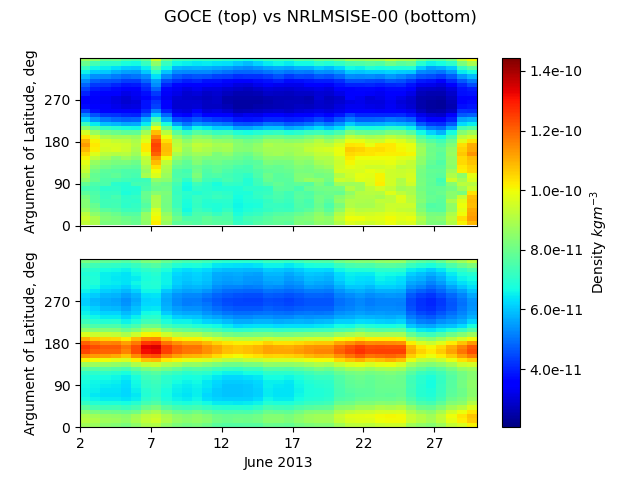
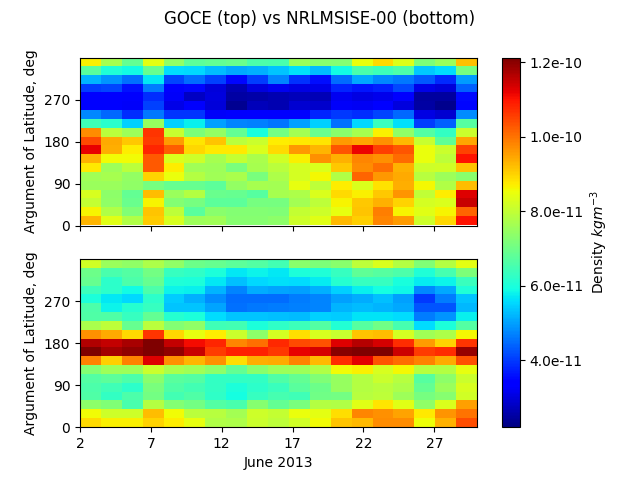
Increased reduction factor so that number of requests made to API is under the daily quota.

diff --git a/validation_goce_mission/analysis.py b/validation_goce_mission/analysis.py
@@ -80,7 +80,7 @@ df_goce = df_goce[
 
 # Reduce the dataset by only keeping every N-th sample
 # reduces the number of API calls
-reduction_factor = 10
+reduction_factor = 250
 df_goce = df_goce.iloc[::reduction_factor, :]
 
 # Create geomagnetic indices lookup dataframe for the month
@@ -248,6 +248,7 @@ def fetch_density_from_api(row):
     else:
         return response.json()
 
+print("WARNING: making {} requests from the Amentum API, may exceed daily quota".format(len(df_goce)))
 
 # Apply the function call onto each row of the dataframe
 res = df_goce.apply(fetch_density_from_api, axis=1)
@@ -266,10 +267,10 @@ time_deltas = df_goce["datetime"].values - df_goce["datetime"].values.min()
 time_deltas = [t / np.timedelta64(1, "s") for t in time_deltas]
 
 # Create linear bins for time deltas and argument of latitudes
-tds = np.linspace(min(time_deltas), max(time_deltas), 40)
+tds = np.linspace(min(time_deltas), max(time_deltas), 20)
 
 arg_lats = np.linspace(
-    df_goce["argument_latitude"].min(), df_goce["argument_latitude"].max(), 40
+    df_goce["argument_latitude"].min(), df_goce["argument_latitude"].max(), 20
 )
 
 # Calculate the densities as mean values lying within 2d grid of bins
@@ -289,7 +290,6 @@ densities_api = stats.binned_statistic_2d(
     bins=(tds, arg_lats),
 )
 
-# TODO Creat the Figures with captions at top of report, BLUF approach
 fig_cont, (ax_goce, ax_api) = plt.subplots(nrows=2, sharex=True)
 fig_cont.suptitle("GOCE (top) vs NRLMSISE-00 (bottom)")
 

diff --git a/validation_goce_mission/README.md b/validation_goce_mission/README.md
@@ -6,7 +6,7 @@ The mission objectives demanded an unusually low altitude orbit with an electric
 
 GOCE's instruments also provided the world with valuable insights into the density and winds of the atmosphere. 
 
-The following study validates the NRLMSISE-00 model and the Amentum API by comparing results of API calls with experimental data obtained during the GOCE mission. 
+The following study validates the NRLMSISE-00 and JB2008 endpoints of the Amentum API by comparing results of API calls with experimental data obtained during the GOCE mission. 
 
 More information on the mission can be found [here](https://earth.esa.int/web/guest/missions/esa-eo-missions/goce/mission-summary). 
 
@@ -19,6 +19,7 @@ You can install the required Python packages using pip like so
 # Results
 
 ![](./Density_GOCE_vs_NRLMSISE-00.png)
+![](./Density_GOCE_vs_JB2008.png)
 
 Figure 1: Thermospheric density distributions for June 2013
 
